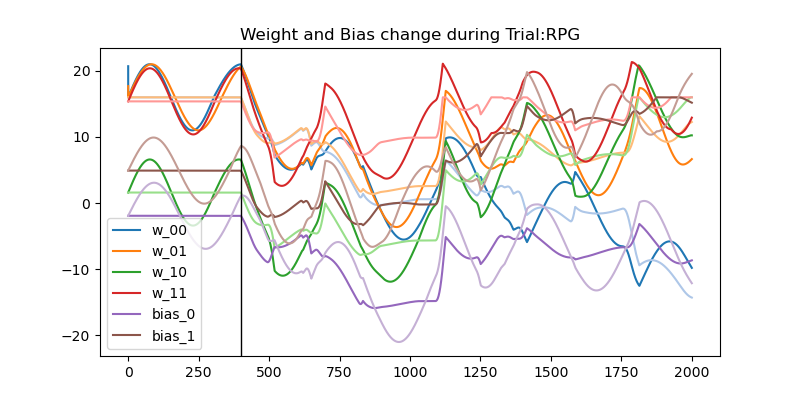
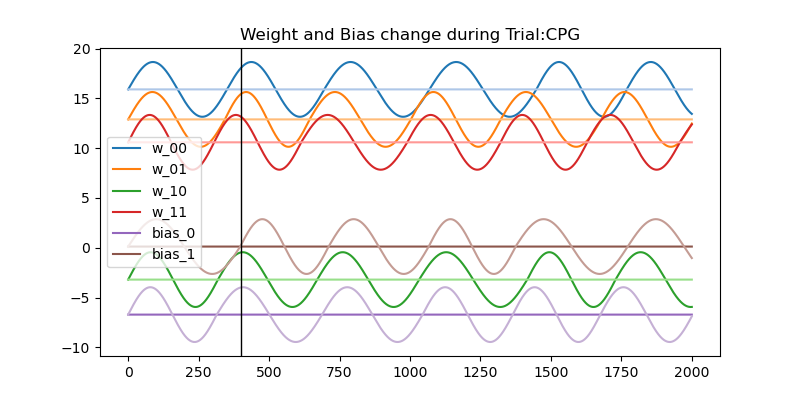
fitnessFunction: add rpg, cpg and neuron config

diff --git a/revision/iterate_params.py b/revision/iterate_params.py
@@ -36,18 +36,35 @@ param_list = {
     "conv_rate": [0.004],
     "min_period": [300],
     "max_period": [400],
-    "init_flux": [6.0],  # ], 0.2, 0.3, 0.4, 0.5, 0.6, 0.7, 0.8, 0.9, 1.0],
-    "max_flux": [10],
-    "duration": [4000],
-    "size": [2],
-    "generator_type":["CPG"],
-    "tolerance": [0.01]
+    "init_flux": [1],  # ], 0.2, 0.3, 0.4, 0.5, 0.6, 0.7, 0.8, 0.9, 1.0],
+    "max_flux": [20],
+    "duration": [2000],
+    "size": [4],
+    "generator_type":["RPG"],
+    "tolerance": [0.00],
+    "neuron_configuration":[[0, 1,2]]
 }
 
 size = param_list['size'][0]
 #starting_genome =np.array([0.99388489,  -0.19977217,   0.80557307,  0.66176187, -0.41946752,  0.00756486, -0.72451768, -0.50670193])
+#starting_genome+=np.random.normal(0, 0.25, size=starting_genome.size)
+#starting_genome = np.clip(starting_genome, -1, 1)
+#starting_genome  = np.array([ 1.0, -0.11474362,  1.0, 0.67264083, -0.15113028, -0.13459438, -0.46356377, -0.35980982])
+
+#genome size 4 fit=.125
+#starting_genome = np.array([ 0.70253284,  0.04967815, -0.99453649, -0.99988757,  0.12909339,  0.3162378,
+#  -0.95867928, -1.0, 0.79827901, -0.98378147, -0.2802766,  -0.56927462,
+#  -0.98631473, -0.05024617, -0.10482154,  0.44165332,  0.71163555, -0.09252401,
+#  -1.0, 0.29520454,  0.21483684, -0.65461579,  0.89240772, -0.71878452])
+
+#starting_Genome = .434
+starting_genome = np.array([0.23346257, -0.30279292, 0.34302416, -0.03512043, 0.80039391, -0.36072524,
+-0.49741529, 0.33465454, 0.40609191, -0.2660889, 0.41499235, -0.26798221,
+-0.57463584, 0.53038157, 0.22581106, -0.82549032, 0.33720579, -0.26231516,
+-0.30053218, 0.66658017, 0.21483684, -0.65461579, 0.89240772, -0.71878452])
+
 #starting_genome =np.array([0]*(size*size+2*size))
-starting_genome = np.random.uniform(size=size*size+2*size)*2-1
+#starting_genome = np.random.uniform(size=size*size+2*size)*2-1
 #starting_genome += 0.3
 # parameters to track and their order to save into npz file
 # itertools creates a list of all permutations for each list in the dictionary
@@ -67,7 +84,9 @@ for x in itertools.product(*param_list.values()):
             print(f"{key}:{params[key]}", end=" ", flush=False)
 
     # load in perturbed genome
-    starting_fitness = fitnessFunction(starting_genome, N=params["size"])
+    starting_fitness = fitnessFunction(starting_genome, N=params["size"],
+                                       generator_type=params['generator_type'],
+                                       configuration=params['neuron_configuration'], verbose=verbose)
     print(f"\nTrial:", end= " ")
     for i in range(trials):
         print(f" {i}", end=" ", flush=False)

diff --git a/revision/fitnessFunction.py b/revision/fitnessFunction.py
@@ -13,9 +13,11 @@ duration = 220.0
 stepsize = 0.1
 #time = np.arange(0.0, duration, stepsize)
 
-def fitnessFunction(genotype, duration=220.0, N=2):
+def fitnessFunction(genotype, duration=220.0, N=2, generator_type='RPG', configuration = [0], verbose=0):
     # Create the agent's body
     legged = leggedwalker.LeggedAgent()
+    if verbose>0:
+        print(f"Running fitnessFunction:{generator_type}")
     # Create the nervous system
     ns = CTRNN(N)
     # Set the parameters of the nervous system according to the genotype-phenotype map
@@ -30,12 +32,17 @@ def fitnessFunction(genotype, duration=220.0, N=2):
     time = np.arange(0.0, duration, stepsize)
     for i, t in enumerate(time):
 
-        ns.setInputs(np.array([legged.anglefeedback()]*N))  # Set neuron input to angle feedback based on current body state
+        if generator_type=='RPG':
+            ns.setInputs(np.array([legged.anglefeedback()]*N))  # Set neuron input to angle feedback based on current body state
+        else:
+            ns.setInputs(np.array([0]* ns.size))
 #        ns.setInputs(np.array([0.0]*N))  # Set neuron input to angle feedback based on current body state
         ns.step(stepsize)                               # Update the nervous system based on inputs
-        legged.step1(stepsize, ns.outputs)                  # Update the body based on nervous system activity
+        legged.stepN(stepsize, ns.outputs, configuration)                  # Update the body based on nervous system activity
 #        fitness_arr[i] = body.cx                        # track position of body
                                                         #update neurons based on speed of movement (cx(t)-cx(t-1))/dt
     # Calculate the fitness based on distance covered over the duration of time
     fit = legged.cx/duration
+    if verbose==1:
+        print(ns.recoverParameters())
     return fit

diff --git a/revision/learningFunction.py b/revision/learningFunction.py
@@ -61,12 +61,12 @@ def learn(starting_genome, duration=2000, size=2, windowsize=4000, stepsize=0.1,
         )
     else:
         learner.simulate(body, learning_start=4000, verbose=verbose)
-    end_fitness = fitnessFunction(learner.recoverParameters(), N=size)
+    end_fitness = fitnessFunction(learner.recoverParameters(), N=size, generator_type=generator_type, configuration=configuration, verbose=verbose)
 
     if verbose>0:
-        start_fitness = fitnessFunction(starting_genome, N=size)
+        start_fitness = fitnessFunction(starting_genome, N=size, generator_type=generator_type, configuration=configuration)
         print(start_fitness)
-        print(f"startFitness: {start_fitness}\nendFitness: {end_fitness}")
+        print(f"startFitness: {start_fitness}\nendFitness:   {end_fitness}")
     if log_data:
         # if data is being saves, save the end fiteness
         datalogger.data["end_fitness"] = end_fitness
